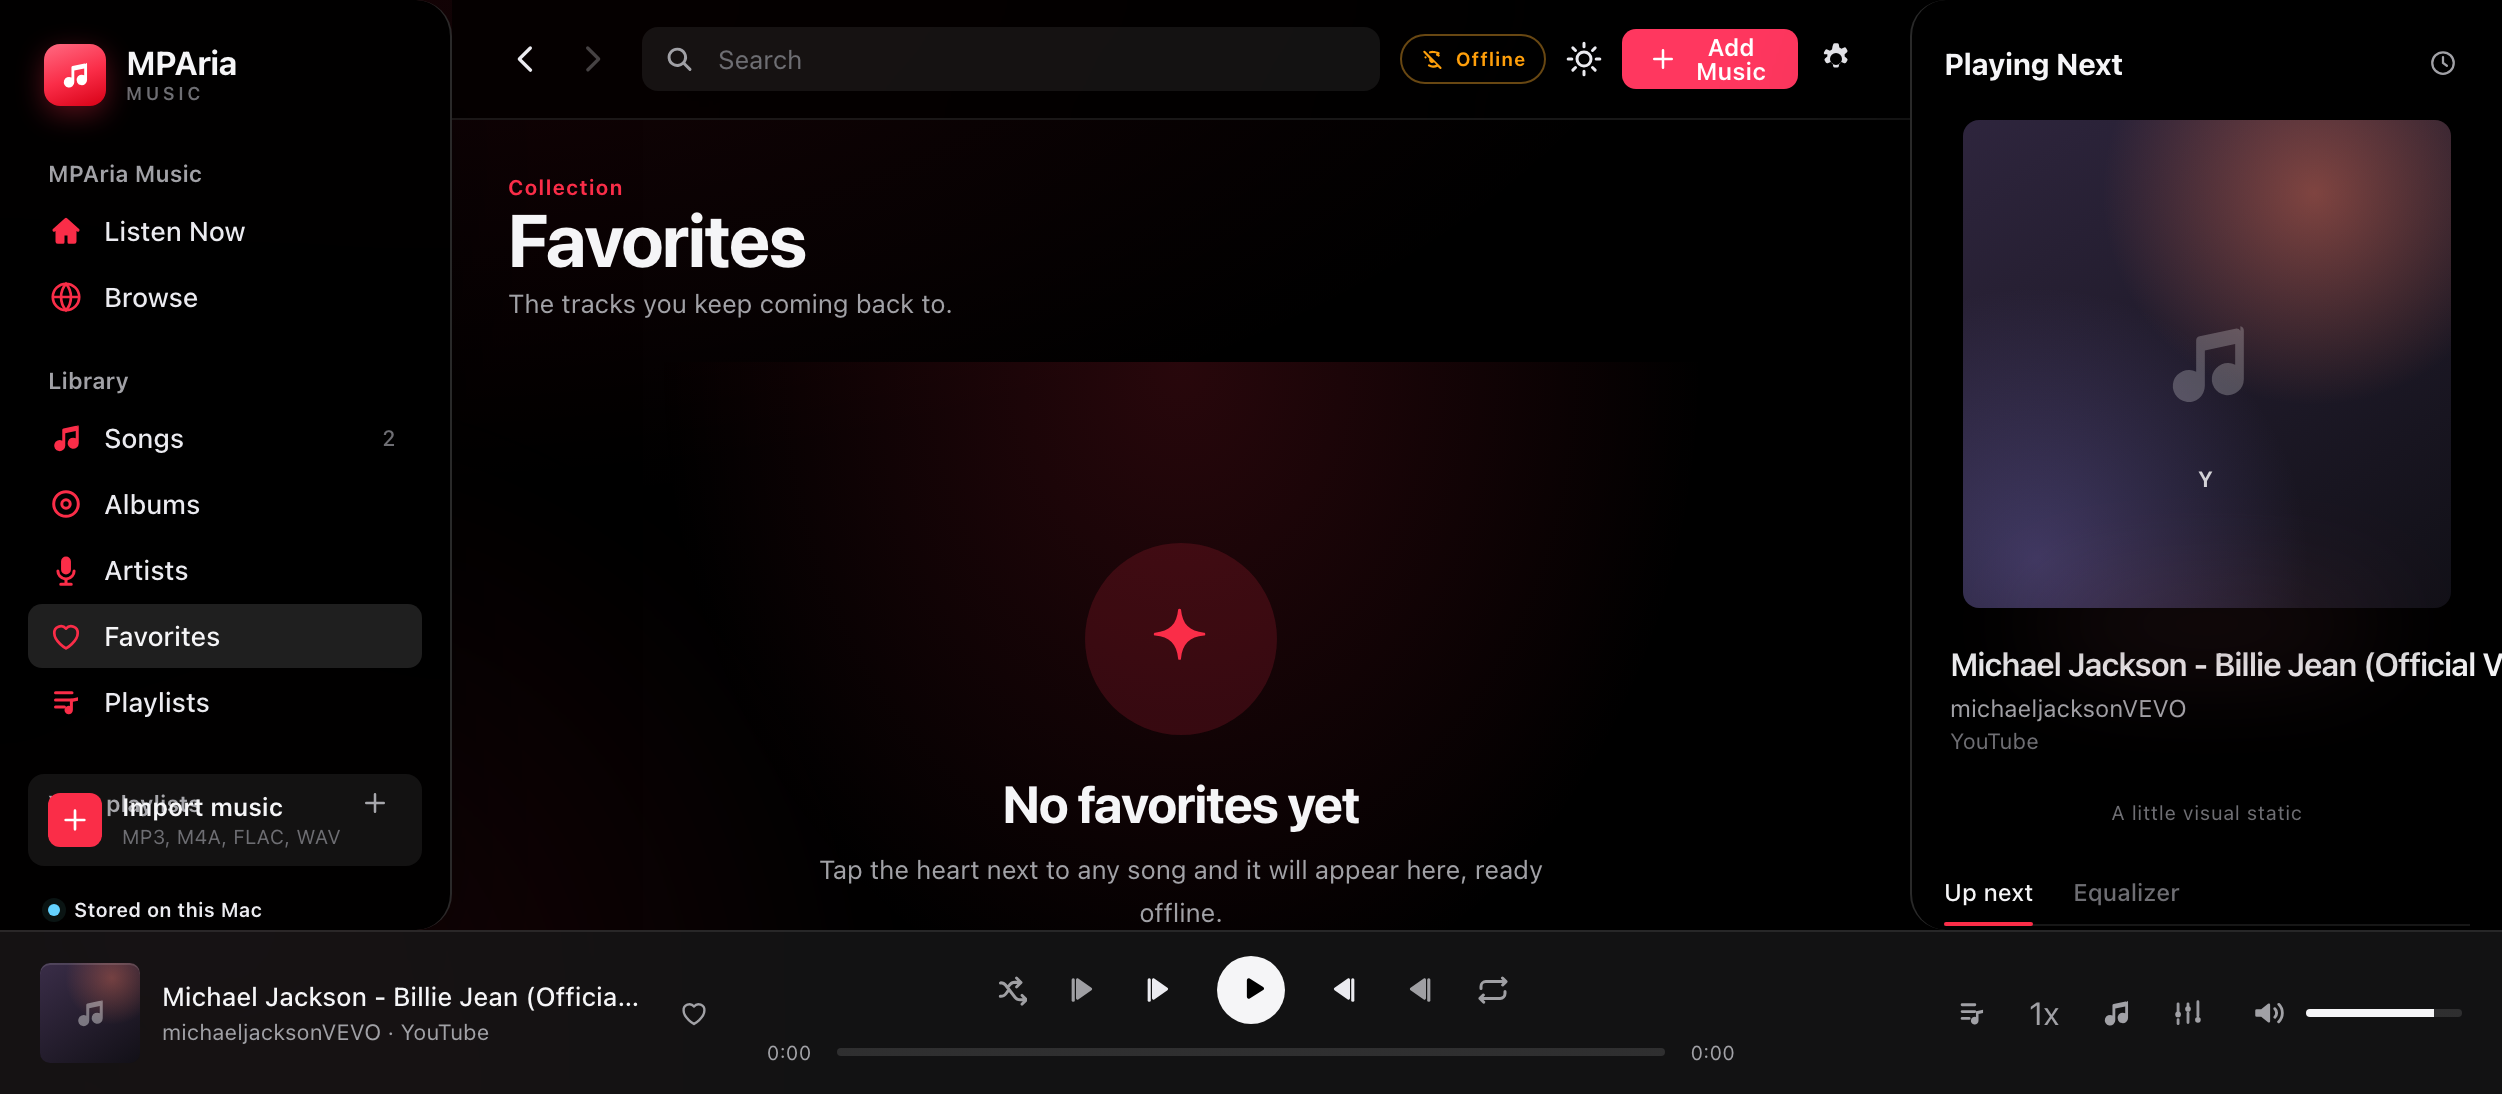
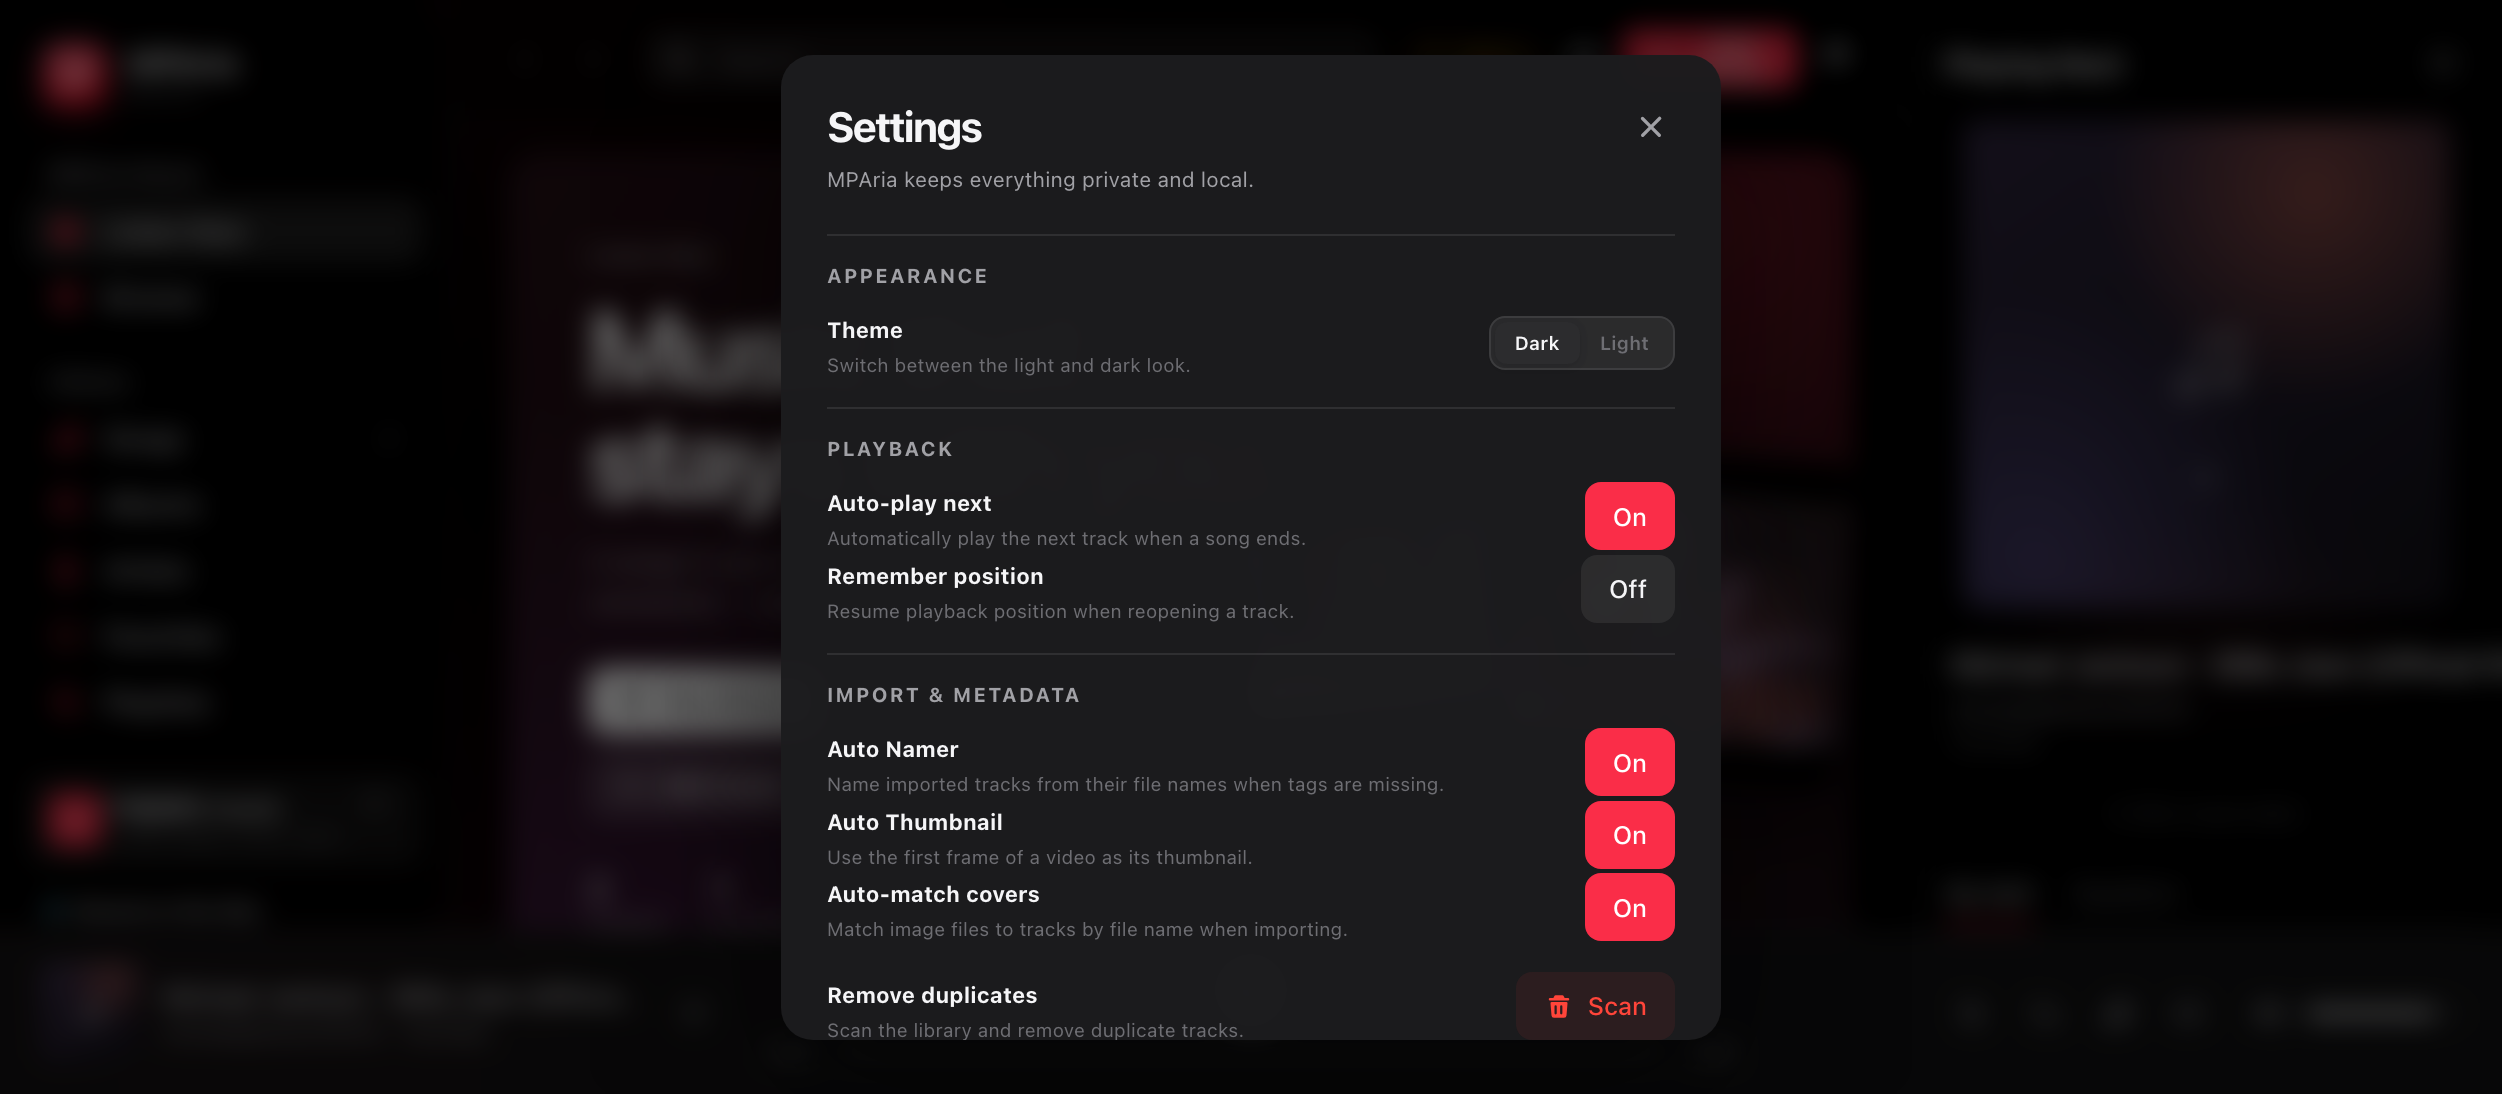
Refresh README and settings screenshot

diff --git a/README.md b/README.md
@@ -2,11 +2,17 @@
 
 # 🎵 MPAria
 
-**Private, offline-first music player for the music you own.**
+### *Your music. Your machine. No cloud. No ads. No account.*
+
+**The private, offline-first music player that puts you back in control of your collection.**
+Import your own files, organize them beautifully, and listen anywhere — even with zero internet.
 
 [![GitHub](https://img.shields.io/badge/GitHub-avikasmin5773--debug%2FMPAria-181717?logo=github)](https://github.com/avikasmin5773-debug/MPAria)
-[![Platform](https://img.shields.io/badge/platform-macOS-lightgrey?logo=apple)](#)
+[![Platform](https://img.shields.io/badge/platform-macOS%20%7C%20Windows%20%7C%20Linux-lightgrey)](#)
 [![License](https://img.shields.io/badge/license-MIT-green)](#)
+[![Version](https://img.shields.io/badge/version-1.0.0-blue)](#)
+
+> 🚀 **Download the macOS DMG below and start listening in seconds.**
 
 </div>
 
